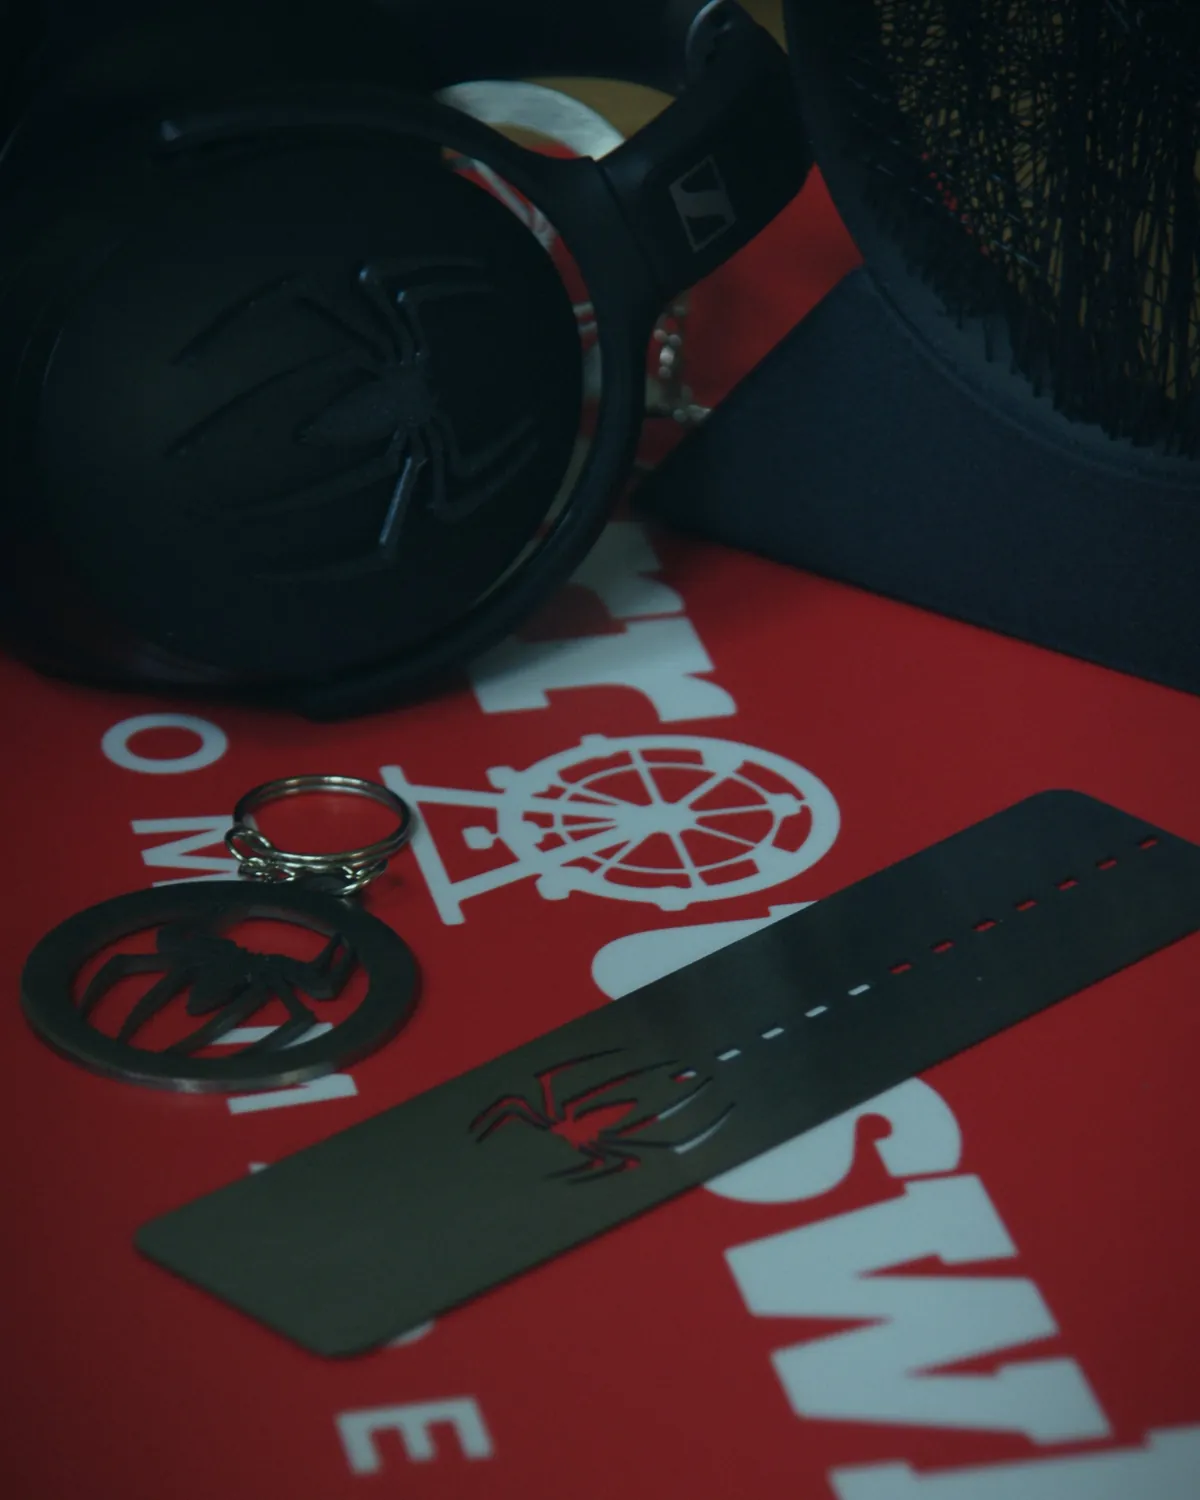
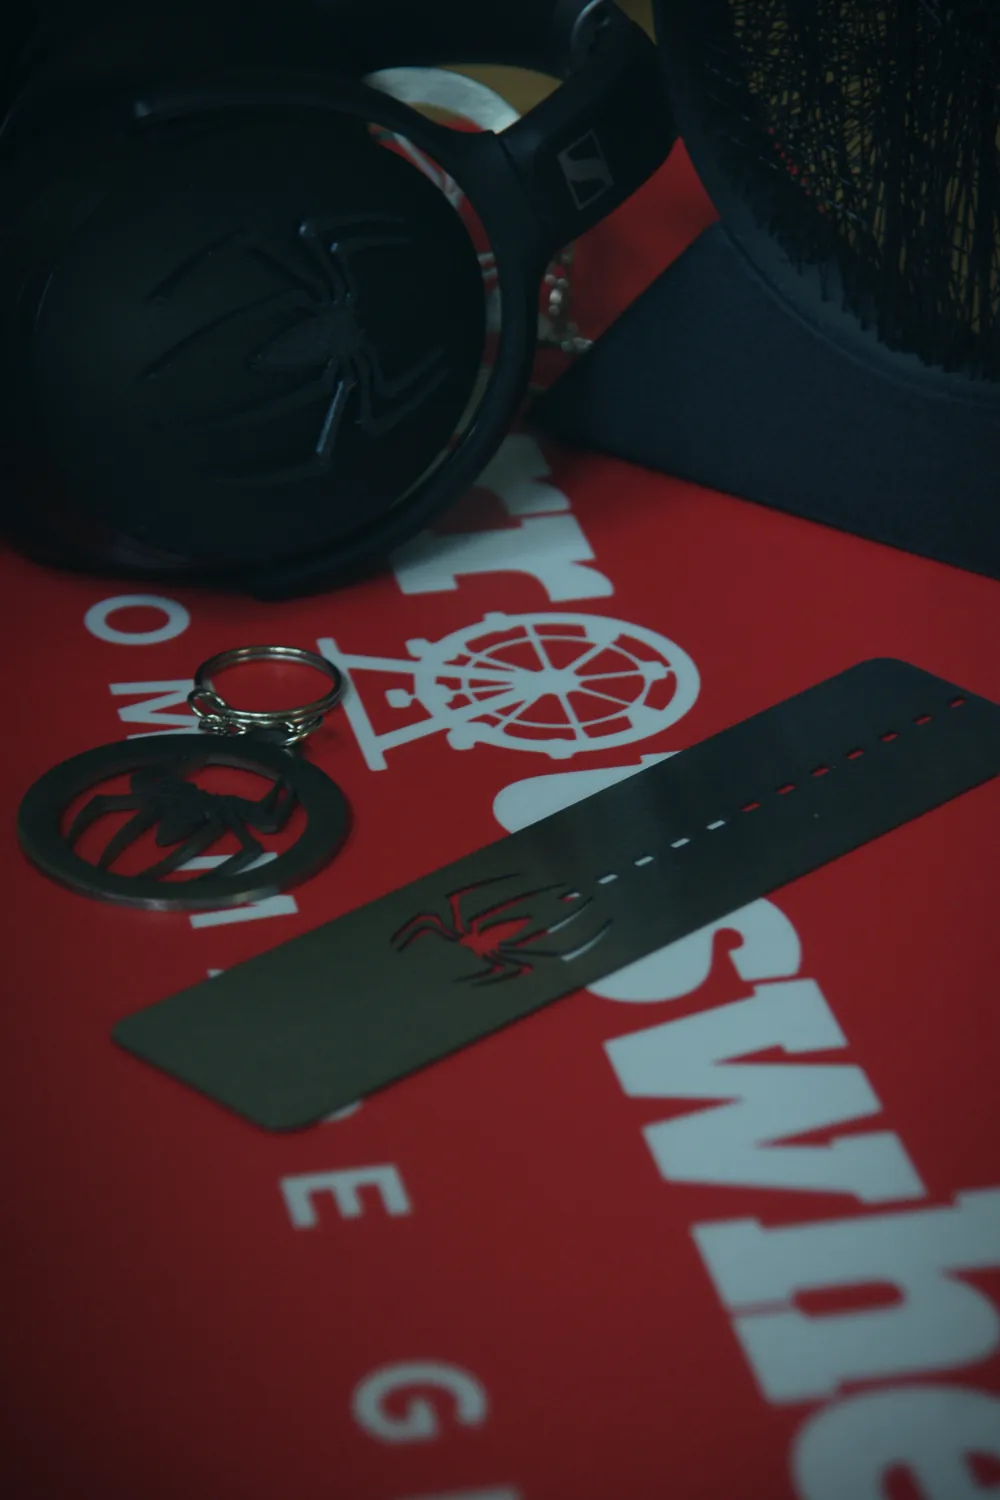
Use uncropped 2:3 photos and show them whole in gallery and viewer
Claude-Session: https://claude.ai/code/session_01Q8PF2qDU9u6JrC57sKyPRh

diff --git a/src/App.jsx b/src/App.jsx
@@ -239,7 +239,7 @@ function GalleryModal({ product, onClose, start = 0, showPageLink = true }) {
           <p className="modal-tagline">"{product.tagline}"</p>
         </div>
         <div className="modal-main-image">
-          <img src={gallery[current]} alt={`Custom metal ${product.name.toLowerCase()} by Ferrouswheel, Bangalore`} />
+          <img src={gallery[current]} className={gallery[current].startsWith("/images/") ? "fit-whole" : undefined} alt={`Custom metal ${product.name.toLowerCase()} by Ferrouswheel, Bangalore`} />
           {gallery.length > 1 && (
             <>
               <button className="modal-nav prev" aria-label="Previous image" onClick={() => setCurrent(c => (c - 1 + gallery.length) % gallery.length)}>‹</button>
@@ -637,7 +637,7 @@ function CategoryPage({ product, page }) {
           <div className="cat-gallery">
             {gallery.map((img, i) => (
               <button key={img} className="cat-thumb" onClick={() => setOpen(i)} aria-label={`View photo ${i + 1}`}>
-                <img src={sized(img, 600)} alt={`${page.h1} — piece ${i + 1} by Ferrouswheel`} loading="lazy" width="600" height="600" />
+                <img src={sized(img, 600)} className={img.startsWith("/images/") ? "fit-whole" : undefined} alt={`${page.h1} — piece ${i + 1} by Ferrouswheel`} loading="lazy" width="600" height="600" />
               </button>
             ))}
           </div>
@@ -993,6 +993,7 @@ export default function FerrouswheelWebsite() {
         .modal-tagline { font-size: 13px; color: var(--red); font-style: italic; margin-top: 4px; }
         .modal-main-image { position: relative; width: 100%; height: 400px; margin-top: 16px; overflow: hidden; }
         .modal-main-image img { width: 100%; height: 100%; object-fit: cover; }
+        .modal-main-image img.fit-whole { object-fit: contain; background: #000; }
         .modal-nav { position: absolute; top: 50%; transform: translateY(-50%); background: rgba(0,0,0,0.6); border: none; color: #fff; font-size: 32px; width: 48px; height: 48px; cursor: pointer; border-radius: 50%; display: flex; align-items: center; justify-content: center; transition: background 0.2s; }
         .modal-nav:hover { background: var(--red); }
         .modal-nav.prev { left: 12px; }
@@ -1071,6 +1072,7 @@ export default function FerrouswheelWebsite() {
         .cat-gallery { display: grid; grid-template-columns: repeat(auto-fill, minmax(220px, 1fr)); gap: 14px; }
         .cat-thumb { aspect-ratio: 1; border: 1px solid var(--border); border-radius: 4px; overflow: hidden; padding: 0; background: var(--card-bg); cursor: zoom-in; }
         .cat-thumb img { width: 100%; height: 100%; object-fit: cover; display: block; transition: transform 0.3s; }
+        .cat-thumb img.fit-whole { object-fit: contain; background: #000; }
         .cat-thumb:hover img { transform: scale(1.06); }
         .idea-chips { display: flex; flex-wrap: wrap; gap: 10px; margin-bottom: 18px; }
         .idea-chips .value-chip { font-size: 14px; padding: 8px 16px; }
